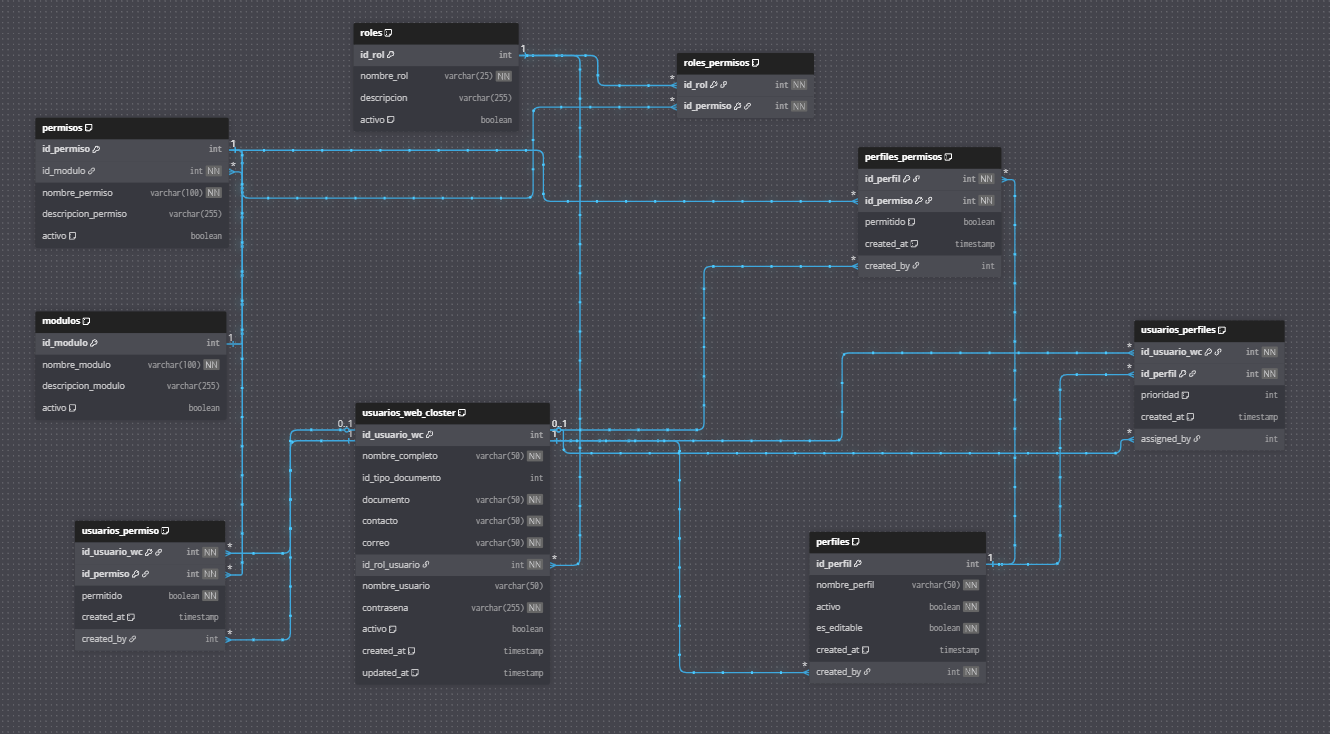
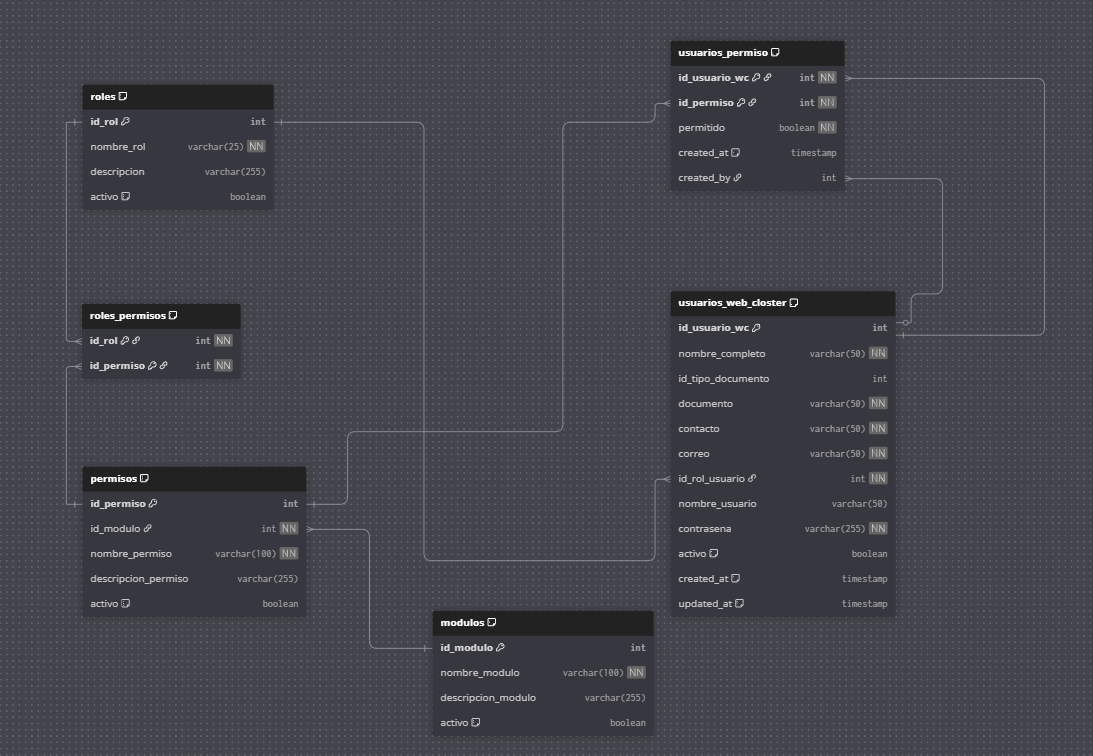
docs(RBAC): -Se refatoriza la documentación actualizando la nueva estructura sin los perfiles y solo queda con roles -Se actualiza imagen del MER

Changed region(s): [[0.0, 0.03, 0.9643, 0.9591], [0.4977, 0.7193, 0.5288, 0.7493], [0.4977, 0.3896, 0.5288, 0.4196]]

diff --git a/Mecodex docs/docs/Documentacion software ActivaMecodex/RBAC Control de Acceso Basado en Roles.md b/Mecodex docs/docs/Documentacion software ActivaMecodex/RBAC Control de Acceso Basado en Roles.md
@@ -29,18 +29,12 @@ RBAC es un modelo de seguridad que asigna permisos a usuarios basándose en sus 
 
 ## 🏗 Arquitectura del Sistema
 
-ActivaMecodex utiliza una **jerarquía de 3 niveles** para determinar los permisos efectivos de cada usuario:
+ActivaMecodex utiliza una **jerarquía de 2 niveles** para determinar los permisos efectivos de cada usuario:
 ```
 ┌─────────────────────────────────────────┐
-│  Nivel 3: OVERRIDES INDIVIDUALES        │  ← Mayor prioridad
+│  Nivel 2: OVERRIDES INDIVIDUALES        │  ← Mayor prioridad
 │  (usuarios_permisos)                    │
 │  Excepción específica por usuario       │
-└─────────────────────────────────────────┘
-                  ↓
-┌─────────────────────────────────────────┐
-│  Nivel 2: PERFILES PERSONALIZABLES      │  ← Prioridad media
-│  (usuarios_perfiles + perfiles_permisos)│
-│  Plantillas reutilizables de permisos   │
 └─────────────────────────────────────────┘
                   ↓
 ┌─────────────────────────────────────────┐
@@ -54,10 +48,9 @@ ActivaMecodex utiliza una **jerarquía de 3 niveles** para determinar los permis
 
 Cuando el sistema evalúa si un usuario tiene un permiso específico, verifica en este orden:
 
-1. **¿Existe un override individual?** → Si existe, ese es el valor definitivo
-2. **¿Tiene perfiles asignados?** → Si existe, usa el permiso del perfil de mayor prioridad
-3. **¿Qué permisos tiene su rol base?** → Si no hay override ni perfil, usa el permiso del rol
-4. **Si no existe en ningún lado** → El permiso es **DENEGADO** por defecto
+1. **¿Existe un override individual?** → Si existe, ese es el valor definitivo por encima de permisos por el rol
+2. **¿Qué permisos tiene su rol?** → Si no hay override del usuario, usa el permiso del rol
+3. **Si no existe en ningún lado** → El permiso es **DENEGADO** por defecto
 
 ---
 
@@ -117,7 +110,7 @@ activo: 1
 ```
 
 :::info Buena práctica
-Los roles deben representar **funciones reales** en tu organización (ej: Gerente de Ventas, Auditor, Operador).
+Los roles deben representar **funciones reales** en tu empresa (ej: "Administrador", "Soporte Técnico", "Cartera", etc).
 :::
 
 ---
@@ -236,123 +229,7 @@ Cuando asignas el rol "Soporte" a un usuario, **automáticamente** obtiene los 4
 
 ---
 
-### 6. perfiles
-
-**Descripción**: Contenedores **reutilizables** de permisos personalizados. Permiten crear configuraciones específicas que pueden asignarse a múltiples usuarios sin modificar sus roles base.
-
-**Campos principales**:
-- `id_perfil`: Identificador único
-- `nombre_perfil`: Nombre descriptivo (ej: "Auditor Avanzado")
-- `descripcion`: Explicación del propósito del perfil
-- `activo`: Estado del perfil
-- `es_editable`: Si el perfil puede ser modificado
-- `created_by`: Usuario que creó el perfil (FK → usuarios_web_closter)
-
-**¿Cuándo usar perfiles?**
-
-✅ **Usa perfiles cuando**:
-- Necesitas la misma configuración de permisos para **varios usuarios**
-- Quieres crear "plantillas" reutilizables
-- Los permisos del rol base no son suficientes ni excesivos
-
-❌ **NO uses perfiles cuando**:
-- Solo un usuario necesita el cambio → usa **override individual**
-
-**Ejemplo de perfil**:
-```sql
-id_perfil: 1
-nombre_perfil: "Auditor Avanzado"
-descripcion: "Puede ver todo y crear clientes, pero no modificar ni eliminar"
-activo: 1
-es_editable: 1
-created_by: 1  -- Creado por Jhoan
-```
-
-**Caso de uso real**:
-
-Imagina que tienes **10 empleados nuevos** que necesitan:
-- Ver clientes y usuarios
-- Crear clientes
-- NO editar ni eliminar nada
-
-En lugar de hacer 10 overrides individuales, creas **1 perfil** y lo asignas a los 10 usuarios.
-
----
-
-### 7. perfiles_permisos
-
-**Descripción**: Tabla intermedia que define qué permisos están **habilitados o denegados** en cada perfil.
-
-**Campos principales**:
-- `id_perfil`: Perfil al que pertenece (FK → perfiles)
-- `id_permiso`: Permiso asociado (FK → permisos)
-- `permitido`: `1` = conceder, `0` = denegar
-- `created_by`: Usuario que configuró el permiso
-
-**Llave primaria compuesta**: `(id_perfil, id_permiso)`
-
-**Ejemplo de configuración del perfil "Auditor Avanzado"**:
-```sql
--- Perfil "Auditor Avanzado" (id=1)
-INSERT INTO perfiles_permisos (id_perfil, id_permiso, permitido, created_by) VALUES
-(1, 1, 1, 1),  -- ✅ clientes.ver = PERMITIDO
-(1, 2, 1, 1),  -- ✅ clientes.crear = PERMITIDO
-(1, 3, 0, 1),  -- ❌ clientes.editar = DENEGADO
-(1, 4, 0, 1),  -- ❌ clientes.eliminar = DENEGADO
-(1, 5, 1, 1),  -- ✅ usuarios.ver = PERMITIDO
-(1, 9, 1, 1);  -- ✅ inicio.ver = PERMITIDO
-```
-
-:::warning Importante
-Si un permiso no está en esta tabla, el perfil **NO lo otorga**. Solo incluye los permisos que quieres controlar.
-:::
-
----
-
-### 8. usuarios_perfiles
-
-**Descripción**: Asigna **perfiles** a usuarios específicos. Un usuario puede tener múltiples perfiles con diferentes prioridades.
-
-**Campos principales**:
-- `id_usuario_wc`: Usuario al que se asigna (FK → usuarios_web_closter)
-- `id_perfil`: Perfil asignado (FK → perfiles)
-- `prioridad`: Número que define precedencia (mayor = más importante)
-- `assigned_by`: Usuario que hizo la asignación
-
-**Llave primaria compuesta**: `(id_usuario_wc, id_perfil)`
-
-**¿Cómo funciona la prioridad?**
-
-Si un usuario tiene **2 perfiles** que definen el mismo permiso de forma diferente, gana el de **mayor prioridad**.
-
-**Ejemplo**:
-```sql
--- Usuario root (id=2) recibe perfil "Auditor Avanzado"
-INSERT INTO usuarios_perfiles (id_usuario_wc, id_perfil, prioridad, assigned_by) VALUES
-(2, 1, 1, 1);  -- root obtiene perfil 1, prioridad 1, asignado por Jhoan
-
--- Usuario David (id=10) también recibe el mismo perfil
-INSERT INTO usuarios_perfiles (id_usuario_wc, id_perfil, prioridad, assigned_by) VALUES
-(10, 1, 1, 1);
-```
-
-**Caso con múltiples perfiles y prioridades**:
-```sql
--- Usuario María tiene 2 perfiles
-INSERT INTO usuarios_perfiles (id_usuario_wc, id_perfil, prioridad) VALUES
-(5, 1, 1),  -- Perfil "Auditor" (prioridad 1) → clientes.eliminar = NO
-(5, 2, 2);  -- Perfil "Gerente" (prioridad 2) → clientes.eliminar = SÍ
-
--- Resultado: María SÍ puede eliminar clientes porque el perfil de prioridad 2 gana
-```
-
-:::info Buena práctica
-Usa prioridades solo cuando realmente necesites múltiples perfiles. Para la mayoría de casos, **un perfil por usuario** es suficiente.
-:::
-
----
-
-### 9. usuarios_permisos
+### 6. usuarios_permisos
 
 **Descripción**: Tabla de **overrides individuales**. Permite conceder o revocar permisos específicos a un usuario sin cambiar su rol ni perfil. Tiene la **máxima prioridad** en la jerarquía.
 
@@ -390,7 +267,7 @@ INSERT INTO usuarios_permisos (id_usuario_wc, id_permiso, permitido, created_by)
 ```
 
 :::danger Prioridad máxima
-Si existe un registro en `usuarios_permisos`, ese valor es **DEFINITIVO**. No importa qué diga el rol o el perfil.
+Si existe un registro en `usuarios_permisos`, ese valor es **DEFINITIVO**. No importa qué diga el rol.
 :::
 
 ---
@@ -416,55 +293,25 @@ Si existe un registro en `usuarios_permisos`, ese valor es **DEFINITIVO**. No im
 
 ---
 
-### Ejemplo 2: Usuario con rol + perfil
+### Ejemplo 3: Usuario con rol + override
 
 **Usuario**: root (id=2)  
 **Rol**: Soporte  
-**Perfil**: "Auditor Avanzado" (id=1)  
-**Overrides**: Ninguno  
-
-**¿Qué permisos tiene?**
-
-1. **Hereda del rol Soporte**: `clientes.ver`, `clientes.crear`, `clientes.editar`, `inicio.ver`
-2. **Hereda del perfil**: `clientes.ver`, `clientes.crear` (NO editar), `usuarios.ver`, `inicio.ver`
-
-**Conflicto**: El rol permite `clientes.editar` pero el perfil lo NIEGA.
-
-**Resolución**: Gana el **perfil** (nivel 2) sobre el rol (nivel 1).
-
-**Permisos efectivos**:
-```
-✅ clientes.ver        (rol + perfil)
-✅ clientes.crear      (rol + perfil)
-❌ clientes.editar     (perfil lo deniega, supera al rol)
-❌ clientes.eliminar   (ni rol ni perfil lo tienen)
-✅ usuarios.ver        (del perfil)
-❌ usuarios.crear      (ni rol ni perfil lo tienen)
-✅ inicio.ver          (rol + perfil)
-```
-
----
-
-### Ejemplo 3: Usuario con rol + perfil + override
-
-**Usuario**: root (id=2)  
-**Rol**: Soporte  
-**Perfil**: "Auditor Avanzado"  
 **Override**: `usuarios.suspender = 1` (CONCEDIDO)  
 
 **Permisos efectivos**:
 ```
-✅ clientes.ver        (rol + perfil)
-✅ clientes.crear      (rol + perfil)
-❌ clientes.editar     (perfil lo deniega)
-❌ clientes.eliminar   (ni rol ni perfil lo tienen)
-✅ usuarios.ver        (del perfil)
+✅ clientes.ver        (rol)
+✅ clientes.crear      (rol)
+❌ clientes.editar     (rol lo deniega)
+❌ clientes.eliminar   (rol lo deniega)
+✅ usuarios.ver        (rol)
 ✅ usuarios.suspender  (OVERRIDE individual - máxima prioridad)
-✅ inicio.ver          (rol + perfil)
+✅ inicio.ver          (OVERRIDE individual - máxima prioridad)
 ```
 
 :::tip Jerarquía en acción
-El override `usuarios.suspender = 1` **supera** el hecho de que ni el rol ni el perfil lo permiten.
+El override `usuarios.suspender = 1` y `inicio.ver = 1` **supera** el hecho de que rol lo permiten.
 :::
 
 ---
@@ -518,15 +365,15 @@ flowchart TD
 ### ✅ Recomendaciones
 
 1. **Usa roles para permisos comunes**: Define roles que representen funciones reales en tu empresa
-2. **Usa perfiles para grupos de usuarios**: Si 5+ usuarios necesitan los mismos permisos especiales, crea un perfil
+2. **Usa perfiles para grupos de usuarios**: Si 5+ usuarios necesitan los mismos permisos especiales, crea un nuevo rol
 3. **Usa overrides para excepciones**: Solo para casos únicos o temporales
 4. **Documenta los cambios**: Usa el campo `created_by` para saber quién modificó cada permiso
 5. **Revisa periódicamente**: Audita los overrides para detectar permisos obsoletos
 
 ### ❌ Evita
 
-1. **No abuses de los overrides**: Si muchos usuarios necesitan el mismo cambio, crea un perfil o ajusta el rol
-2. **No crees roles demasiado específicos**: Mejor usa perfiles para casos especiales
+1. **No abuses de los overrides**: Si muchos usuarios necesitan el mismo cambio, crea un nuevo rol
+2. **No crees roles demasiado específicos**: Mejor usa roles para casos especiales
 3. **No mezcles perfiles conflictivos**: Si asignas múltiples perfiles, asegúrate de que no se contradigan
 4. **No olvides desactivar usuarios**: Usa el campo `activo` en lugar de eliminar registros
 
@@ -544,11 +391,10 @@ flowchart TD
 
 ## 📝 Resumen
 
-ActivaMecodex implementa un sistema RBAC robusto con **3 niveles jerárquicos**:
+ActivaMecodex implementa un sistema RBAC robusto con **2 niveles jerárquicos**:
 
 1. **Rol base**: Permisos predeterminados según la función del usuario
-2. **Perfiles**: Plantillas reutilizables para grupos de usuarios con necesidades similares
-3. **Overrides individuales**: Excepciones específicas con máxima prioridad
+2. **Overrides individuales**: Excepciones específicas con máxima prioridad
 
 Esta arquitectura permite:
 - ✅ Gestión segura y escalable de permisos
